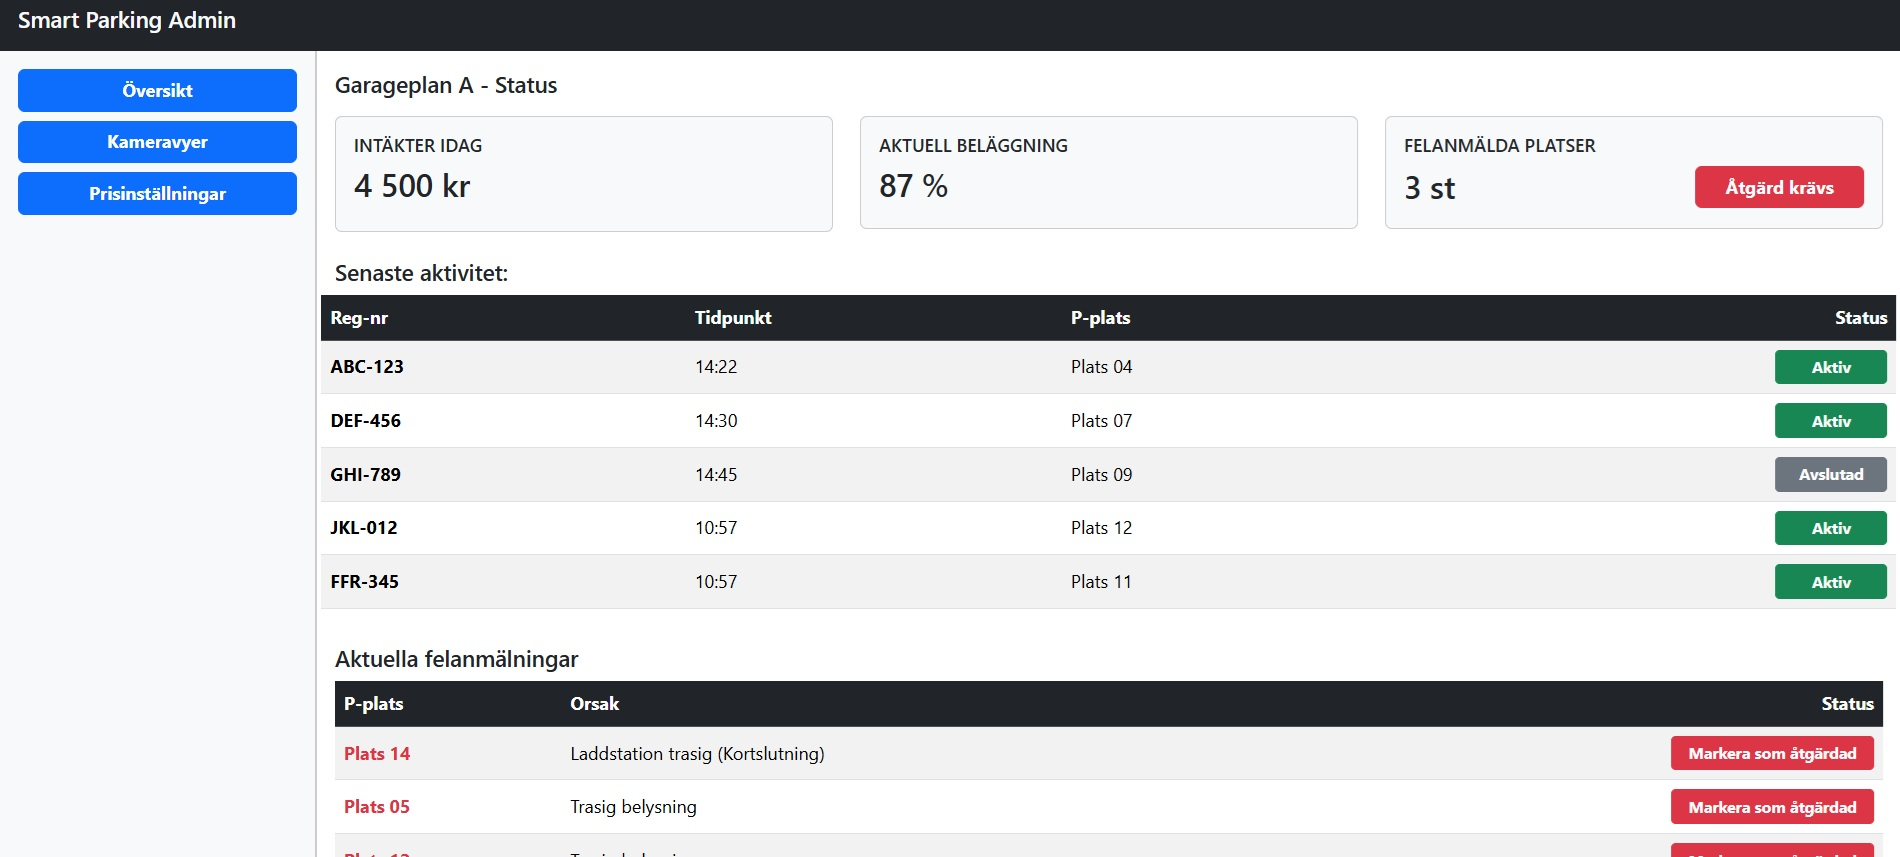
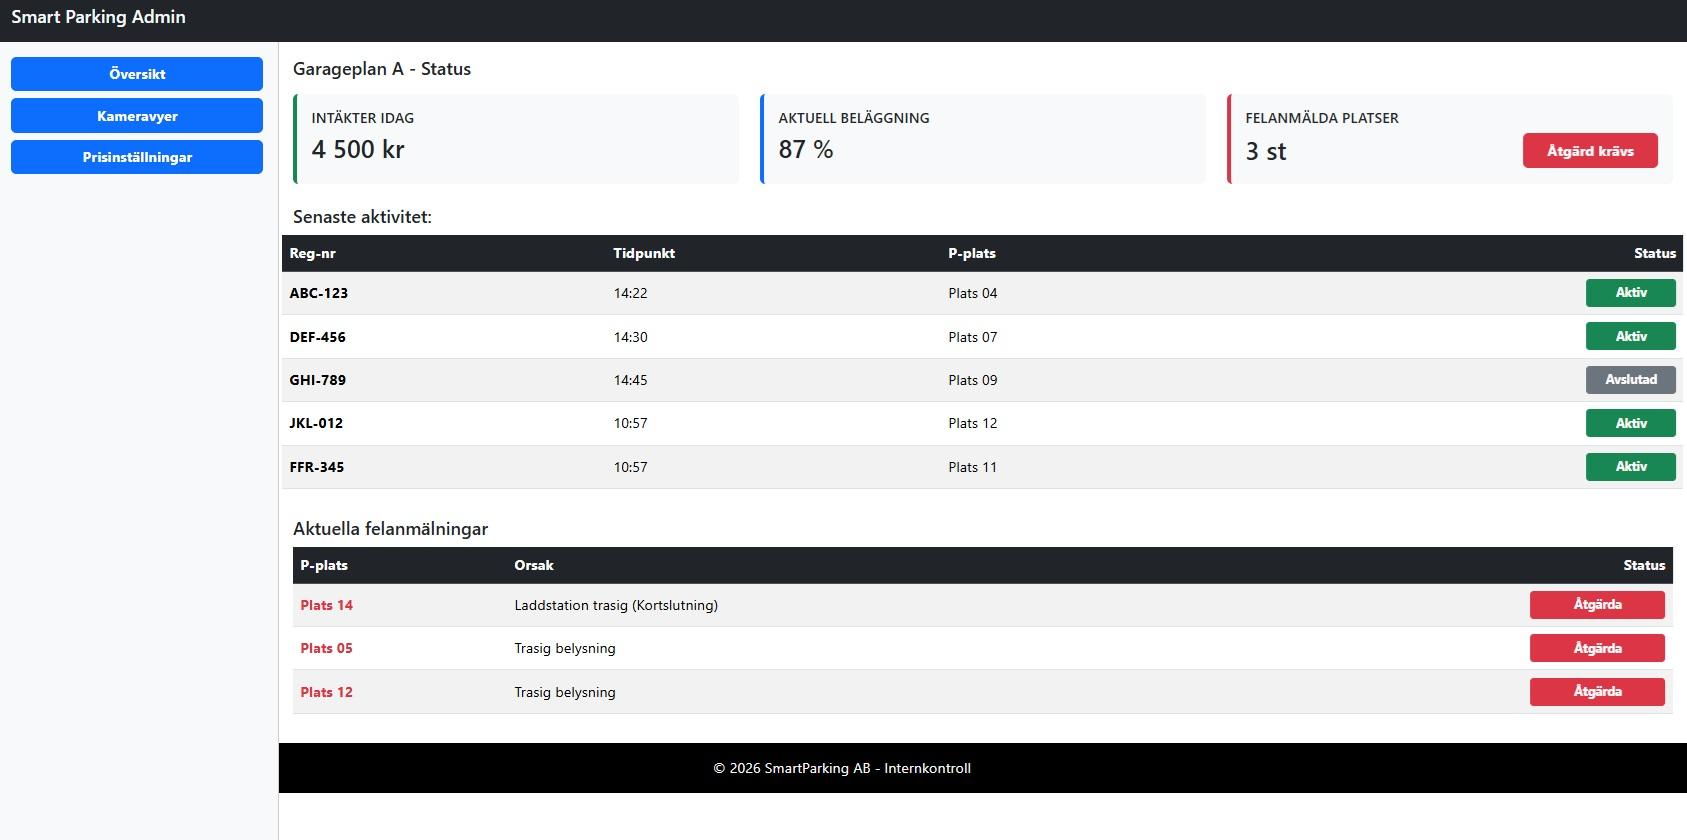
UI uppdaterat 20260709

diff --git a/Exercise20260708/DashBoardSmartParking.html b/Exercise20260708/DashBoardSmartParking.html
@@ -5,35 +5,67 @@
     <meta name="viewport" content="width=device-width, initial-scale=1.0">
     <title>Smart Parking Dashboard</title>
     <link href="https://cdn.jsdelivr.net/npm/bootstrap@5.3.3/dist/css/bootstrap.min.css" rel="stylesheet">
-    <link rel="stylesheet"href="https://cdn.jsdelivr.net/npm/bootstrap-icons@1.13.1/font/bootstrap-icons.min.css">
+    <link href="https://cdn.jsdelivr.net/npm/bootstrap-icons@1.10.5/font/bootstrap-icons.css" rel="stylesheet">
+        <style>
+        .content-wrapper { 
+            margin-left: 0; 
+            margin-top: 120px; /* Liten marginal på mobil */
+        }
+        @media (min-width: 992px) {
+            .content-wrapper { 
+                margin-left: 16.666667%; 
+                margin-top: 50px; /* Större marginal på LG-skärmar och uppåt */
+            } 
+        }
+        @media (max-width: 575.98px) {
+            .btn-action {
+                width: 70px !important;
+                padding-left: 0;
+                padding-right: 0;
+            }
+        }
+        tbody .btn-action {
+            position: relative;
+            z-index: 9999 !important;
+        }
+        .text-blink {
+            animation: soft-blink 1.5s infinite;
+        }
+        @keyframes soft-blink {
+            0% { opacity: 1; }
+            50% { opacity: 0.2; }
+            100% { opacity: 1; }
+        }
+        @media (min-width: 768px) {
+            .col-lg-2 { border-right: 2px solid #ccc !important; border-bottom: none !important; }
+        }
+    </style>
 </head>
-<body>
-<div class="container-fluid vh-100 p-0">
-    <div class="bg-dark text-light px-3 py-2 fixed-top">
-        <h1 class="h5">Smart Parking Admin</h1>
-    </div>
 
+<body>
+    
+    <div class="bg-dark text-light px-3 py-2 fixed-top">
+        <h1 tabindex="0" class="h5">Smart Parking Admin</h1>
+    </div>
+    
+    <div class="container-fluid vh-100 p-0">
     <!-- innehåll -->
 <div class="fixed-top" style="top: 48px; bottom: 0; left: 0; right: 0; overflow-y: auto;">
     <div class="d-flex flex-column flex-lg-row g-0 content-row h-100">
         
         <div class="col-12 col-lg-2" style="border-bottom: 2px solid #ccc; border-right: none;">
-            <style>
-                @media (min-width: 768px) {
-                    .col-lg-2 { border-right: 2px solid #ccc !important; border-bottom: none !important; }
-                }
-            </style>
-            <nav class="bg-light sidebar p-3 d-flex flex-row flex-lg-column gap-2" style="height: auto; min-height: 100%;">
-            <a class="btn btn-primary flex-fill flex-lg-grow-0 w-100">
-                <i class="bi bi-house d-sm-none fw-bold"></i>
+
+            <nav role="navigation" tabindex="0" class="bg-light sidebar p-3 d-flex flex-row flex-lg-column gap-2" style="height: auto; min-height: 100%;">
+            <a role="button" tabindex="0" class="btn btn-primary flex-fill flex-lg-grow-0 w-100">
+                <i aria-hidden="true" class="bi bi-house d-sm-none fw-bold"></i>
                 <span class="d-none d-sm-inline fw-bold">Översikt</span>
             </a>
-            <a class="btn btn-primary flex-fill flex-lg-grow-0 w-100">
-                <i class="bi bi-camera-video d-sm-none fw-bold"></i>
+            <a role="button" tabindex="0" class="btn btn-primary flex-fill flex-lg-grow-0 w-100">
+                <i aria-hidden="true" class="bi bi-camera-video d-sm-none fw-bold"></i>
                 <span class="d-none d-sm-inline fw-bold">Kameravyer</span>
             </a>
-            <a class="btn btn-primary flex-fill flex-lg-grow-0 w-100">
-                <i class="bi bi-currency-dollar d-sm-none fw-bold"></i>
+            <a role="button" tabindex="0" class="btn btn-primary flex-fill flex-lg-grow-0 w-100">
+                <i aria-hidden="true" class="bi bi-currency-dollar d-sm-none fw-bold"></i>
                 <span class="d-none d-sm-inline fw-bold">Prisinställningar</span>
             </a>
             </nav>
@@ -42,138 +74,162 @@
 </div>
 
 <div class="col-12 col-lg-10 end-0 content-wrapper">
-    <style>
-        .content-wrapper { 
-            margin-left: 0; 
-            margin-top: 120px; /* Liten marginal på mobil */
-        }
-        
-        @media (min-width: 992px) {
-            .content-wrapper { 
-                margin-left: 16.666667%; 
-                margin-top: 50px; /* Större marginal på LG-skärmar och uppåt */
-            } 
-        }
 
-        @media (max-width: 575.98px) {
-            .btn-action {
-                width: 70px !important;
-                padding-left: 0;
-                padding-right: 0;
-            }
-        }
-    </style>
 
     <main class="col content-area p-3 mt-5">
-        <h1 class="h5">Garageplan A - Status</h1>
+        <div tabindex="0" class="h5">Garageplan A - Status</div>
         <div class="row">
             <div class="col-12 col-lg-4">
-                <div class="card p-3 my-2 h-60 bg-light">
-                    <h5 class="h6">INTÄKTER IDAG</h5>
-                    <p class="h3">4 500 kr</p>
+                <div class="card border-0 border-start border-success border-5 p-3 my-2 h-60 bg-light " style="height: 100px;">
+                    <h5 tabindex="0" role="heading" aria-level="2" class="h6">INTÄKTER IDAG</h5>
+                    <p tabindex="0" role="text" class="h3">4 500 kr</p>
                 </div>
             </div>
             <div class="col-12 col-lg-4">
-                <div class="card p-3 my-2 bg-light" style="height: 100px;">
-                    <h5 class="h6">AKTUELL BELÄGGNING</h5>
-                    <p class="h3">87 %</p>
+                <div class="card border-0 border-start border-primary border-5 p-3 my-2 bg-light" style="height: 100px;">
+                    <h5 tabindex="0" role="heading" aria-level="2" class="h6">AKTUELL BELÄGGNING</h5>
+                    <p tabindex="0" role="text" class="h3">87 %</p>
                 </div>
             </div>
             <div class="col-12 col-lg-4">
-            <div class="card p-3 my-2 bg-light" style="height: 100px;">
-                <h5 class="h6">FELANMÄLDA PLATSER</h5>
+            <div class="card border-0 border-start border-danger border-5 p-3 my-2 bg-light" style="height: 100px;">
+                <h5 tabindex="0" role="heading" aria-level="2" class="h6">FELANMÄLDA PLATSER</h5>
                 <div class="d-flex align-items-center">
-                    <p class="h3 mb-0">3 st</p>
+                    <p tabindex="0" role="text" class="h3 mb-0">3 st</p>
                     <button class="btn btn-danger ms-auto btn-action fw-bold" style="width:150px;">
-                        <i class="bi bi-tools d-sm-none fw-bold"></i>
-                        <span class="d-none d-sm-inline fw-bold">Åtgärd krävs</span>
+                        <i aria-hidden="true" class="bi bi-tools d-sm-none fw-bold"></i>
+                        <span class="d-none d-sm-inline fw-bold text-blink">Åtgärd krävs</span>
                     </button>
                 </div>
             </div>
         </div>
-        <p class="pt-3 h5">Senaste aktivitet:</p>
+        <p tabindex="0" class="pt-3 h5">Senaste aktivitet:</p>
         <table class="table table-striped table-hover align-middle">
             <thead class="table-dark">
             <tr>
-                <th scope="col">Reg-nr</th>
-                <th scope="col">Tidpunkt</th>
-                <th scope="col">P-plats</th>
-                <th scope="col" class="text-end">Status</th>
+                <th tabindex="0" scope="col">Reg-nr</th>
+                <th tabindex="0" scope="col">Tidpunkt</th>
+                <th tabindex="0" scope="col">P-plats</th>
+                <th tabindex="0" scope="col" class="text-end">Status</th>
             </tr>
             </thead>
             
             <tbody>
             <tr>
-                <td><strong>ABC-123</strong></td>
-                <td>14:22</td>
-                <td>Plats 04</td>
+                <td tabindex="0"><strong>ABC-123</strong></td>
+                <td tabindex="0">14:22</td>
+                <td tabindex="0">Plats 04</td>
                 <td class="text-end"><button class="btn btn-sm btn-success fw-bold" style="width:100px;">Aktiv</button></td>
             </tr>
             <tr>
-                <td><strong>DEF-456</strong></td>
-                <td>14:30</td>
-                <td>Plats 07</td>
+                <td tabindex="0"><strong>DEF-456</strong></td>
+                <td tabindex="0">14:30</td>
+                <td tabindex="0">Plats 07</td>
                 <td class="text-end"><button class="btn btn-sm btn-success fw-bold" style="width:100px;">Aktiv</button></td>
             </tr>
             <tr>
-                <td><strong>GHI-789</strong></td>
-                <td>14:45</td>
-                <td>Plats 09</td>
+                <td tabindex="0"><strong>GHI-789</strong></td>
+                <td tabindex="0">14:45</td>
+                <td tabindex="0">Plats 09</td>
                 <td class="text-end"><button class="btn btn-sm btn-secondary fw-bold" style="width:100px;">Avslutad</button></td>
             </tr>
             <tr>
-                <td><strong>JKL-012</strong></td>
-                <td>10:57</td>
-                <td>Plats 12</td>
+                <td tabindex="0"><strong>JKL-012</strong></td>
+                <td tabindex="0">10:57</td>
+                <td tabindex="0">Plats 12</td>
                 <td class="text-end"><button class="btn btn-sm btn-success fw-bold" style="width:100px;">Aktiv</button></td>
             </tr>
             <tr>
-                <td><strong>FFR-345</strong></td>
-                <td>10:57</td>
-                <td>Plats 11</td>
+                <td tabindex="0"><strong>FFR-345</strong></td>
+                <td tabindex="0">10:57</td>
+                <td tabindex="0">Plats 11</td>
                 <td class="text-end"><button class="btn btn-sm btn-success fw-bold" style="width:100px;">Aktiv</button></td>
             </tr>
             </tbody>
         </table>
-        <p class="pt-3 h5">Aktuella felanmälningar</p>
+        <p tabindex="0" class="pt-3 h5">Aktuella felanmälningar</p>
             <div class="table-responsive">
                 <table class="table table-striped table-hover align-middle">
                 <thead class="table-dark">
                     <tr>
-                    <th scope="col">P-plats</th>
-                    <th scope="col">Orsak</th>
-                    <th scope="col" class="text-end">Status</th>
+                    <th tabindex="0" scope="col">P-plats</th>
+                    <th tabindex="0" scope="col">Orsak</th>
+                    <th tabindex="0" scope="col" class="text-end">Status</th>
                     </tr>
                 </thead>
-                <tbody>
-                    <tr>
-                    <td class="text-danger fw-bold">Plats 14</td>
-                    <td>Laddstation trasig (Kortslutning)</td>
-                    <td class="text-end"><button class="btn btn-sm btn-danger btn-action fw-bold" style="width:180px;">    
-                        <i class="bi bi-tools d-sm-none fw-bold"></i>
-                        <span class="d-none d-sm-inline">Markera som åtgärdad</span>
-                    </button></td>
-                    </tr>
-                    <tr>
-                    <td class="text-danger fw-bold">Plats 05</td>
-                    <td>Trasig belysning</td>
-                    <td class="text-end"><button class="btn btn-sm btn-danger btn-action fw-bold" style="width:180px;">    
-                        <i class="bi bi-tools d-sm-none fw-bold"></i>
-                        <span class="d-none d-sm-inline">Markera som åtgärdad</span>
-                    </button></td>
-                    </tr>
-                    <tr>
-                    <td class="text-danger fw-bold">Plats 12</td>
-                    <td>Trasig belysning</td>
-                    <td class="text-end"><button class="btn btn-sm btn-danger btn-action fw-bold" style="width:180px;">    
-                        <i class="bi bi-tools d-sm-none fw-bold "></i>
-                        <span class="d-none d-sm-inline">Markera som åtgärdad</span>
-                    </button></td>
-                    </tr>
-                </tbody>
+            <tbody>
+                <tr>
+                    <td tabindex="0" class="text-danger fw-bold">Plats 14</td>
+                    <td tabindex="0">Laddstation trasig (Kortslutning)</td>
+                    <td class="text-end">
+                        <button class="btn btn-sm btn-danger btn-action fw-bold" style="width:150px;" 
+                                data-bs-toggle="modal" 
+                                data-bs-target="#atgardaModal" 
+                                data-bs-plats="Plats 14" 
+                                data-bs-fel="Laddstation trasig (Kortslutning)">    
+                            <i class="bi bi-tools d-sm-none fw-bold"></i>
+                            <span class="d-none d-sm-inline">Åtgärda</span>
+                        </button>
+                    </td>
+                </tr>
+                <tr>
+                    <td tabindex="0" class="text-danger fw-bold">Plats 05</td>
+                    <td tabindex="0">Trasig belysning</td>
+                    <td class="text-end">
+                        <button class="btn btn-sm btn-danger btn-action fw-bold" style="width:150px;" 
+                                data-bs-toggle="modal" 
+                                data-bs-target="#atgardaModal" 
+                                data-bs-plats="Plats 05" 
+                                data-bs-fel="Trasig belysning)">    
+                            <i class="bi bi-tools d-sm-none fw-bold"></i>
+                            <span class="d-none d-sm-inline">Åtgärda</span>
+                        </button>
+                    </td>
+                </tr>
+                <tr>
+                    <td tabindex="0" class="text-danger fw-bold">Plats 12</td>
+                    <td tabindex="0">Trasig belysning</td>
+                    <td class="text-end">
+                        <button class="btn btn-sm btn-danger btn-action fw-bold" style="width:150px;" 
+                                data-bs-toggle="modal" 
+                                data-bs-target="#atgardaModal" 
+                                data-bs-plats="Plats 12" 
+                                data-bs-fel="Trasig belysning">    
+                            <i class="bi bi-tools d-sm-none fw-bold"></i>
+                            <span class="d-none d-sm-inline">Åtgärda</span>
+                        </button>
+                    </td>
+                </tr>
+            </tbody>
             </table>
         </main>
     </div>
+
+<div class="modal fade" id="atgardaModal" tabindex="-1" aria-labelledby="atgardaModalLabel" aria-hidden="true">
+  <div class="modal-dialog">
+    <div class="modal-content">
+      <div class="modal-header">
+        <h5 class="modal-title" id="atgardaModalLabel">Hantera felanmälan</h5>
+        <button type="button" class="btn-close" data-bs-dismiss="modal" aria-label="Stäng"></button>
+      </div>
+      <div class="modal-body">
+        <p>Du håller på att åtgärda fel för: <strong id="modalPlatsText"></strong></p>
+        <p><strong>Felbeskrivning:</strong> <span id="modalFelText"></span></p>
+        
+        <div class="mb-3">
+          <label for="atgardaKommentar" class="form-label">Åtgärdsnotering</label>
+          <textarea class="form-control" id="atgardaKommentar" rows="3" placeholder="Skriv vad som har gjorts..."></textarea>
+        </div>
+      </div>
+      <div class="modal-footer">
+        <button type="button" class="btn btn-secondary" data-bs-dismiss="modal">Avbryt</button>
+        <button type="button" class="btn btn-success" id="btnSparaAtgard">Spara och slutför</button>
+      </div>
+    </div>
+  </div>
+</div>
+<script src="https://cdn.jsdelivr.net/npm/bootstrap@5.3.3/dist/js/bootstrap.bundle.min.js"></script>
+    <script src="script.js"></script>
 </body>
 <footer class="text-center py-3 bg-black text-light">
     &copy; 2026 SmartParking AB - Internkontroll

diff --git a/Exercise20260708/script.js b/Exercise20260708/script.js
@@ -1,0 +1,32 @@
+document.addEventListener('DOMContentLoaded', function () {
+    const modalElement = document.getElementById('atgardaModal');
+
+    // Kontrollera att modalen och Bootstrap existerar
+    if (modalElement && typeof bootstrap !== 'undefined') {
+        const bsModal = new bootstrap.Modal(modalElement);
+
+        // Hämta bara åtgärda-knapparna inuti tabellens body
+        const actionButtons = document.querySelectorAll('tbody .btn-action');
+
+        actionButtons.forEach(button => {
+            button.addEventListener('click', function (e) {
+                e.preventDefault(); // Stoppa eventuella standardbeteenden
+
+                // Hämta data från den klickade knappens attribut
+                const plats = this.getAttribute('data-bs-plats');
+                const fel = this.getAttribute('data-bs-fel');
+
+                // Tryck in rätt text i modalens tomma taggar
+                document.getElementById('modalPlatsText').textContent = plats;
+                document.getElementById('modalFelText').textContent = fel;
+
+                // Nollställ textfältet för kommentarer
+                const kommentarFalt = document.getElementById('atgardaKommentar');
+                if (kommentarFalt) kommentarFalt.value = '';
+
+                // Öppna modalen!
+                bsModal.show();
+            });
+        });
+    }
+});
